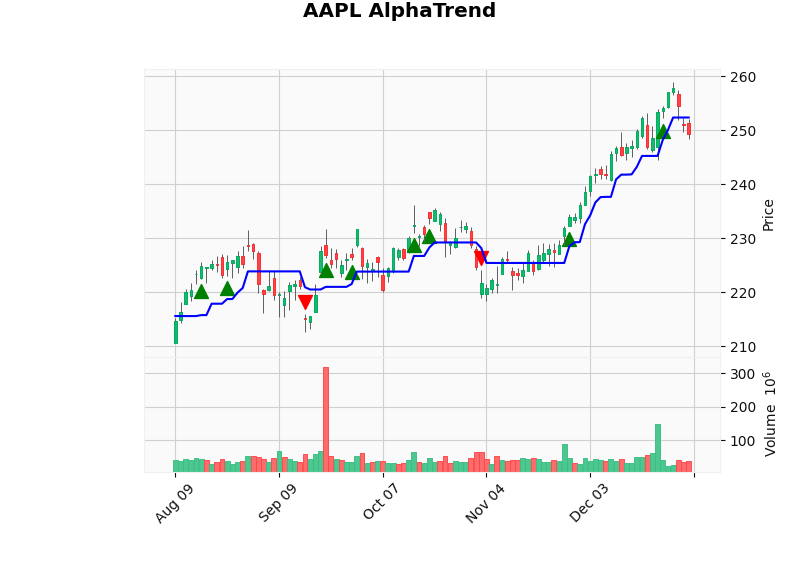
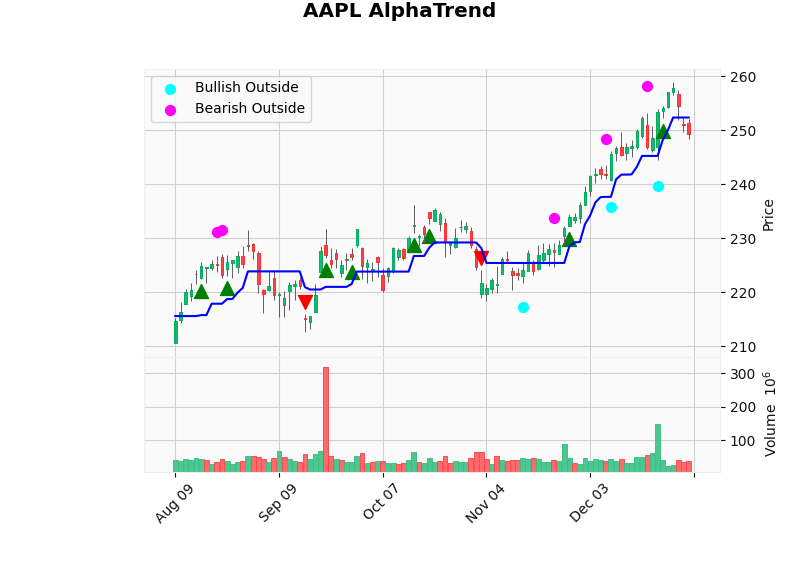
Add outside bar detection and plotting

diff --git a/candlestick_pattern/src/main.py b/candlestick_pattern/src/main.py
@@ -3,6 +3,7 @@ import mplfinance as mpf
 import pandas as pd
 import numpy as np
 from alphatrend import alphatrend
+from patterns import detect_outside_bars
 
 def main():
     print("Fetching data...")
@@ -26,6 +27,9 @@ def main():
     # Calculate AlphaTrend
     # Parameters from Pine Script default: coeff=1, AP=14
     df = alphatrend(df, coeff=1, ap=14)
+
+    print("Detecting Outside Bars...")
+    df = detect_outside_bars(df)
     
     # Prepare plots
     print("Preparing plot...")
@@ -58,6 +62,26 @@ def main():
 
     if not sell_signals.isna().all():
         apds.append(mpf.make_addplot(sell_signals, type='scatter', markersize=100, marker='v', color='red'))
+
+    # Add Bullish Outside Bar Markers
+    bull_outside = plot_df['AlphaTrend'].copy()
+    bull_outside[:] = np.nan
+    # Place marker below low
+    bull_outside[plot_df['Bullish_Outside']] = plot_df['Low'][plot_df['Bullish_Outside']] * 0.98 
+    
+    if not bull_outside.isna().all():
+        # Marker 'o' (circle) in Cyan for Bullish Outside
+        apds.append(mpf.make_addplot(bull_outside, type='scatter', markersize=50, marker='o', color='cyan', label='Bullish Outside'))
+
+    # Add Bearish Outside Bar Markers
+    bear_outside = plot_df['AlphaTrend'].copy()
+    bear_outside[:] = np.nan
+    # Place marker above high
+    bear_outside[plot_df['Bearish_Outside']] = plot_df['High'][plot_df['Bearish_Outside']] * 1.02
+    
+    if not bear_outside.isna().all():
+        # Marker 'o' (circle) in Magenta for Bearish Outside
+        apds.append(mpf.make_addplot(bear_outside, type='scatter', markersize=50, marker='o', color='magenta', label='Bearish Outside'))
 
     # Plot
     mpf.plot(

diff --git a/candlestick_pattern/src/patterns.py b/candlestick_pattern/src/patterns.py
@@ -1,0 +1,27 @@
+import pandas as pd
+import numpy as np
+
+def detect_outside_bars(df):
+    """
+    Detects Bullish and Bearish Outside Bars.
+    
+    Definition:
+    - Outside Bar: Current High > Previous High AND Current Low < Previous Low
+    - Bullish Outside: Outside Bar AND Close > Open (Green Candle)
+    - Bearish Outside: Outside Bar AND Close < Open (Red Candle)
+    """
+    # Create boolean masks
+    # Compare current row with previous row (shift(1))
+    
+    prev_high = df['High'].shift(1)
+    prev_low = df['Low'].shift(1)
+    
+    is_outside = (df['High'] > prev_high) & (df['Low'] < prev_low)
+    
+    is_green = df['Close'] > df['Open']
+    is_red = df['Close'] < df['Open']
+    
+    df['Bullish_Outside'] = is_outside & is_green
+    df['Bearish_Outside'] = is_outside & is_red
+    
+    return df
